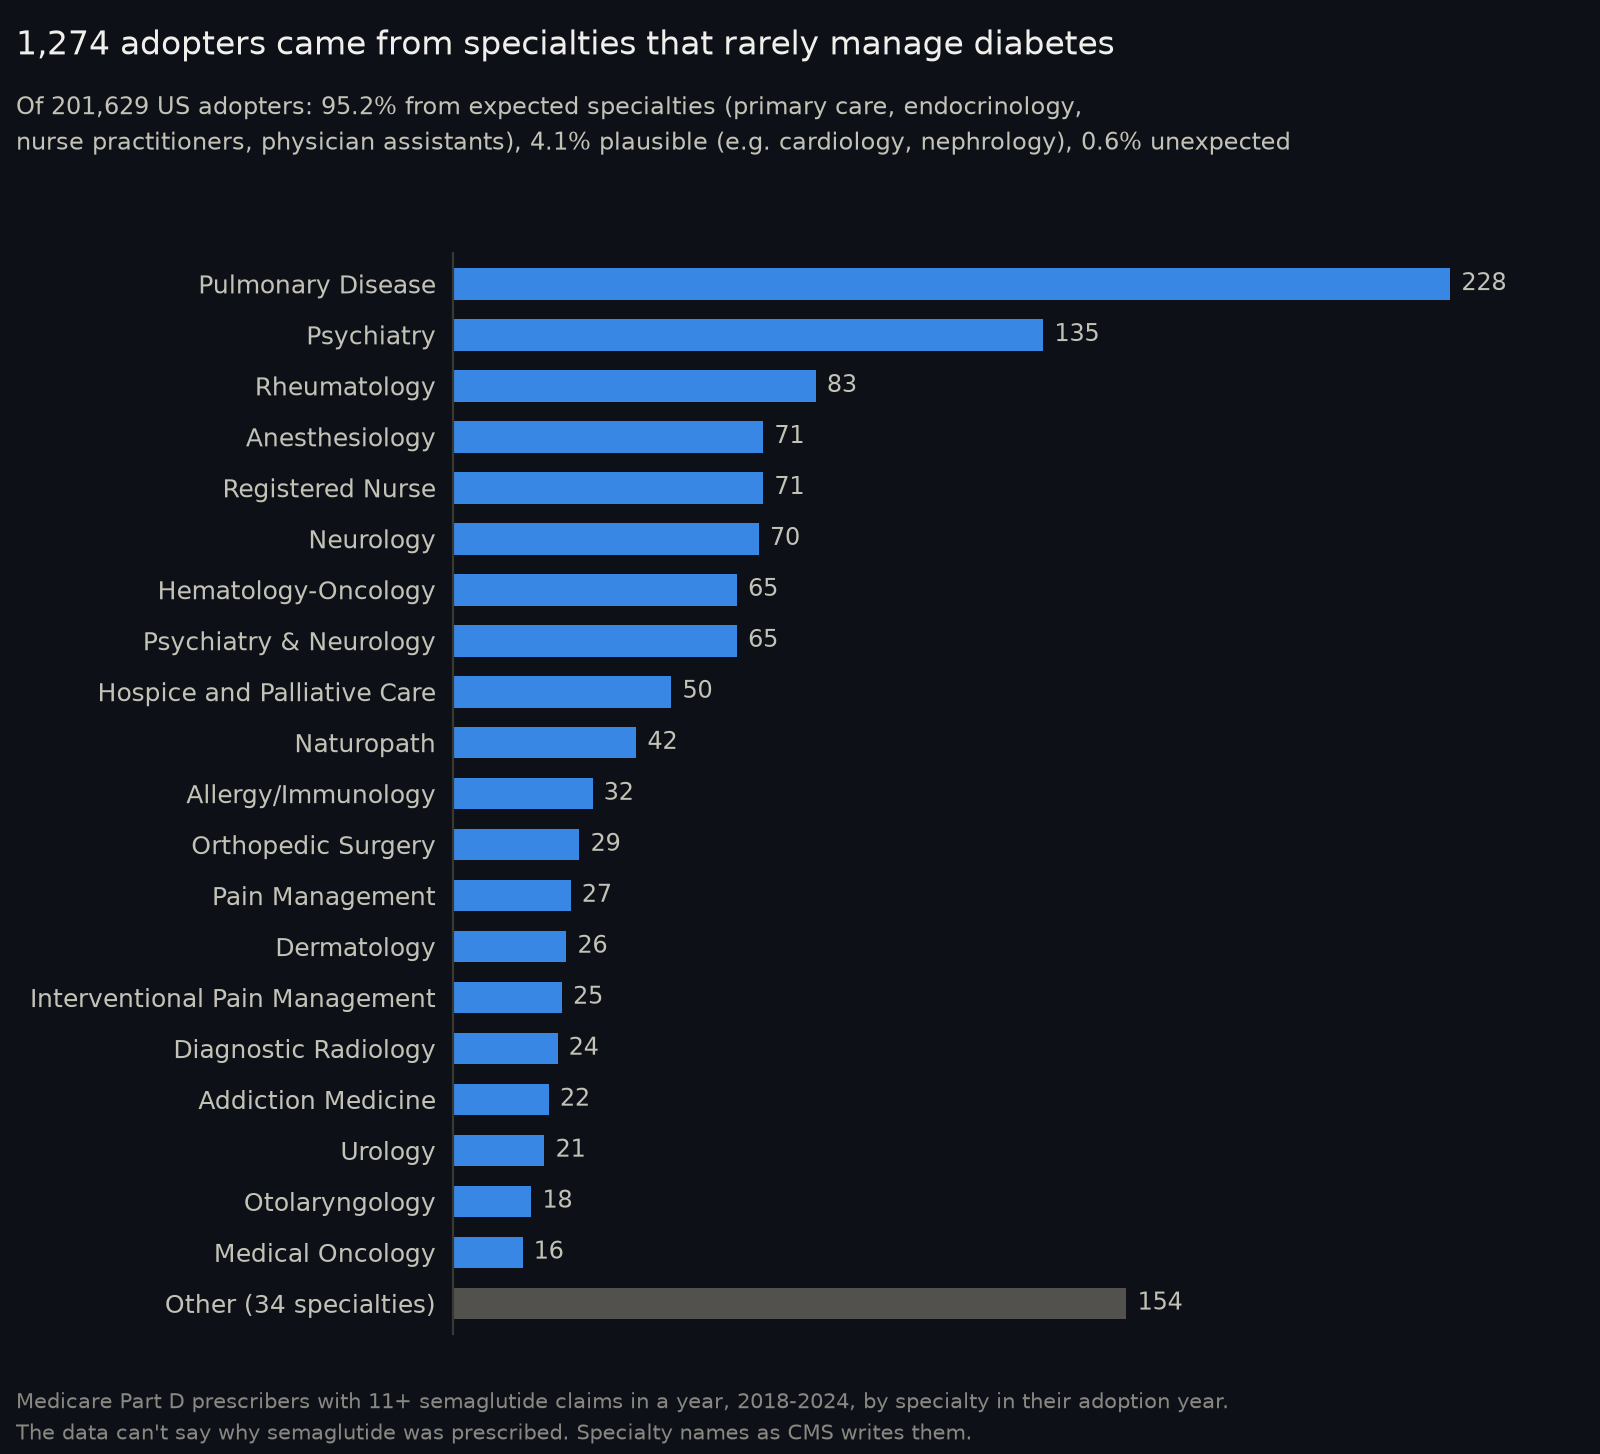
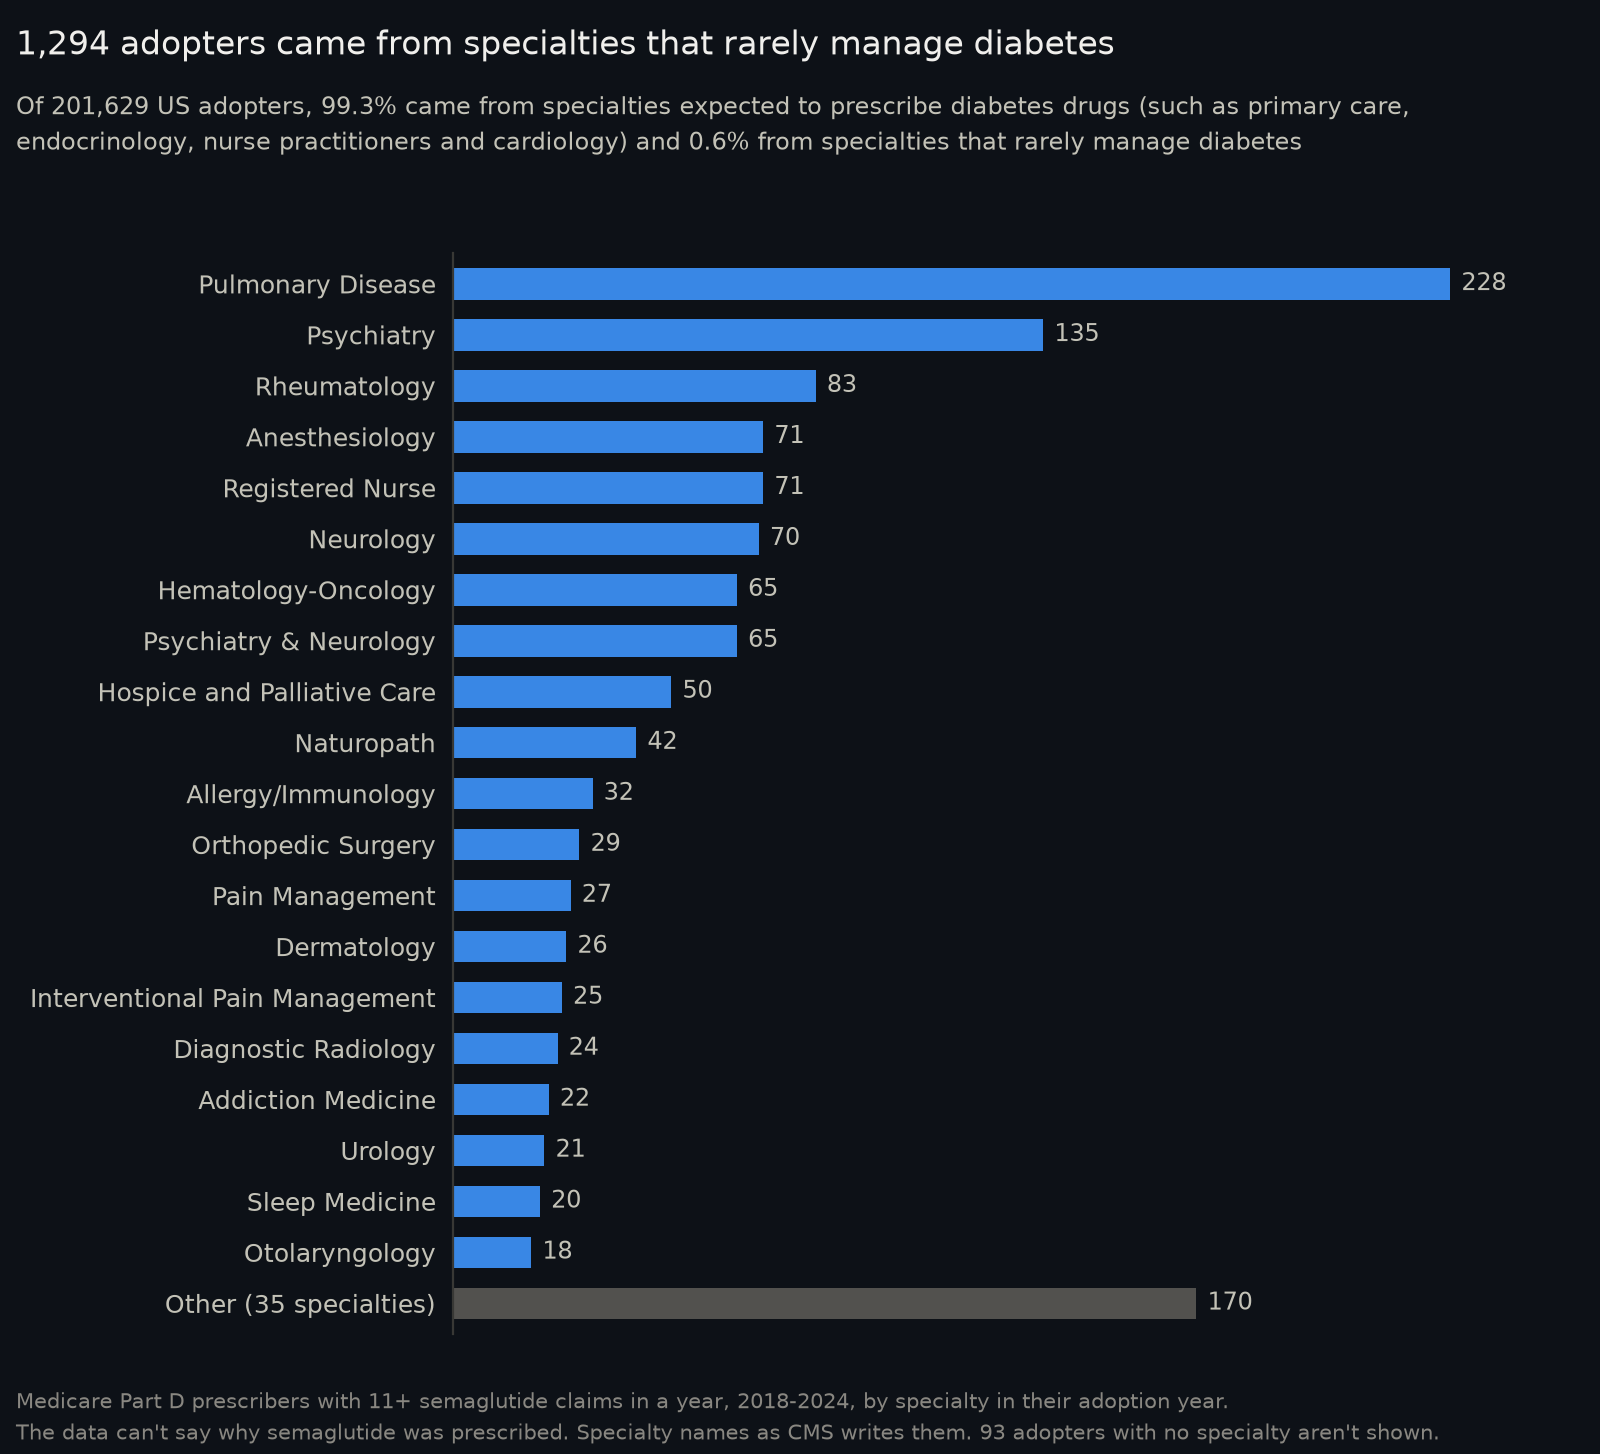
Split specialties into expected and those that rarely manage diabetes (#50)
Plausible specialties (cardiology, nephrology, OB/GYN, hospitalists, pharmacists
and others) join expected; each keeps its reason. Sleep medicine moves to
unexpected. The chart subtitle compares just the two groups: 99.3% expected,
0.6% from specialties that rarely manage diabetes; the footnote counts the 93
adopters with no specialty.

diff --git a/src/semaglutide_spread/viz/specialties.py b/src/semaglutide_spread/viz/specialties.py
@@ -2,8 +2,9 @@
 
 Most adopters are where you'd expect (primary care, nurse practitioners, endocrinology), so
 a chart of every specialty would be one long bar and a lot of slivers. Instead, the subtitle
-gives the split between expected, plausible and unexpected specialties (seed
-`specialty_expectations`, decision D47), and the chart lists the unexpected ones: one
+gives the split between specialties expected to prescribe diabetes drugs and specialties
+that rarely manage diabetes (seed `specialty_expectations`, decision D47), and the chart
+lists the second: one
 horizontal bar per specialty, longest first, the smallest folded into one "Other" bar.
 
 Inputs:  data/warehouse.duckdb (table `rpt_us_adopters_by_specialty`)
@@ -39,6 +40,7 @@ class Specialties:
     adopters: list[int]
     share_pct: dict[str, float]  # expectation -> % of all adopters
     unexpected: int
+    unknown: int  # adopters with no specialty (mostly organisations)
     total: int
 
 
@@ -59,7 +61,13 @@ def load(con: duckdb.DuckDBPyConnection, shown: int = SHOWN) -> Specialties:
         ).fetchall()
     )
     (total,) = con.execute("select sum(adopters) from rpt_us_adopters_by_specialty").fetchone()
-    return Specialties(names, counts, shares, sum(r[1] for r in rows), int(total or 0))
+    (unknown,) = con.execute(
+        "select coalesce(sum(adopters), 0) from rpt_us_adopters_by_specialty "
+        "where expectation = 'unknown'"
+    ).fetchone()
+    return Specialties(
+        names, counts, shares, sum(r[1] for r in rows), int(unknown), int(total or 0)
+    )
 
 
 def draw(data: Specialties, theme: Theme, path: Path) -> Path:
@@ -95,10 +103,10 @@ def draw(data: Specialties, theme: Theme, path: Path) -> Path:
     fig.text(
         0.01,
         1 - 0.45 / height,
-        f"Of {data.total:,} US adopters: {pct.get('expected', 0):.1f}% from expected specialties "
-        "(primary care, endocrinology,\nnurse practitioners, physician assistants), "
-        f"{pct.get('plausible', 0):.1f}% plausible (e.g. cardiology, nephrology), "
-        f"{pct.get('unexpected', 0):.1f}% unexpected",
+        f"Of {data.total:,} US adopters, {pct.get('expected', 0):.1f}% came from specialties "
+        "expected to prescribe diabetes drugs (such as primary care,\nendocrinology, nurse "
+        f"practitioners and cardiology) and {pct.get('unexpected', 0):.1f}% from specialties "
+        "that rarely manage diabetes",
         fontsize=8.5,
         color=theme.secondary,
         va="top",
@@ -109,7 +117,8 @@ def draw(data: Specialties, theme: Theme, path: Path) -> Path:
         0.01,
         "Medicare Part D prescribers with 11+ semaglutide claims in a year, 2018-2024, by "
         "specialty in their adoption year.\nThe data can't say why semaglutide was "
-        "prescribed. Specialty names as CMS writes them.",
+        f"prescribed. Specialty names as CMS writes them. {data.unknown:,} adopters with no "
+        "specialty aren't shown.",
         fontsize=7.5,
         color=theme.muted,
         linespacing=1.5,
